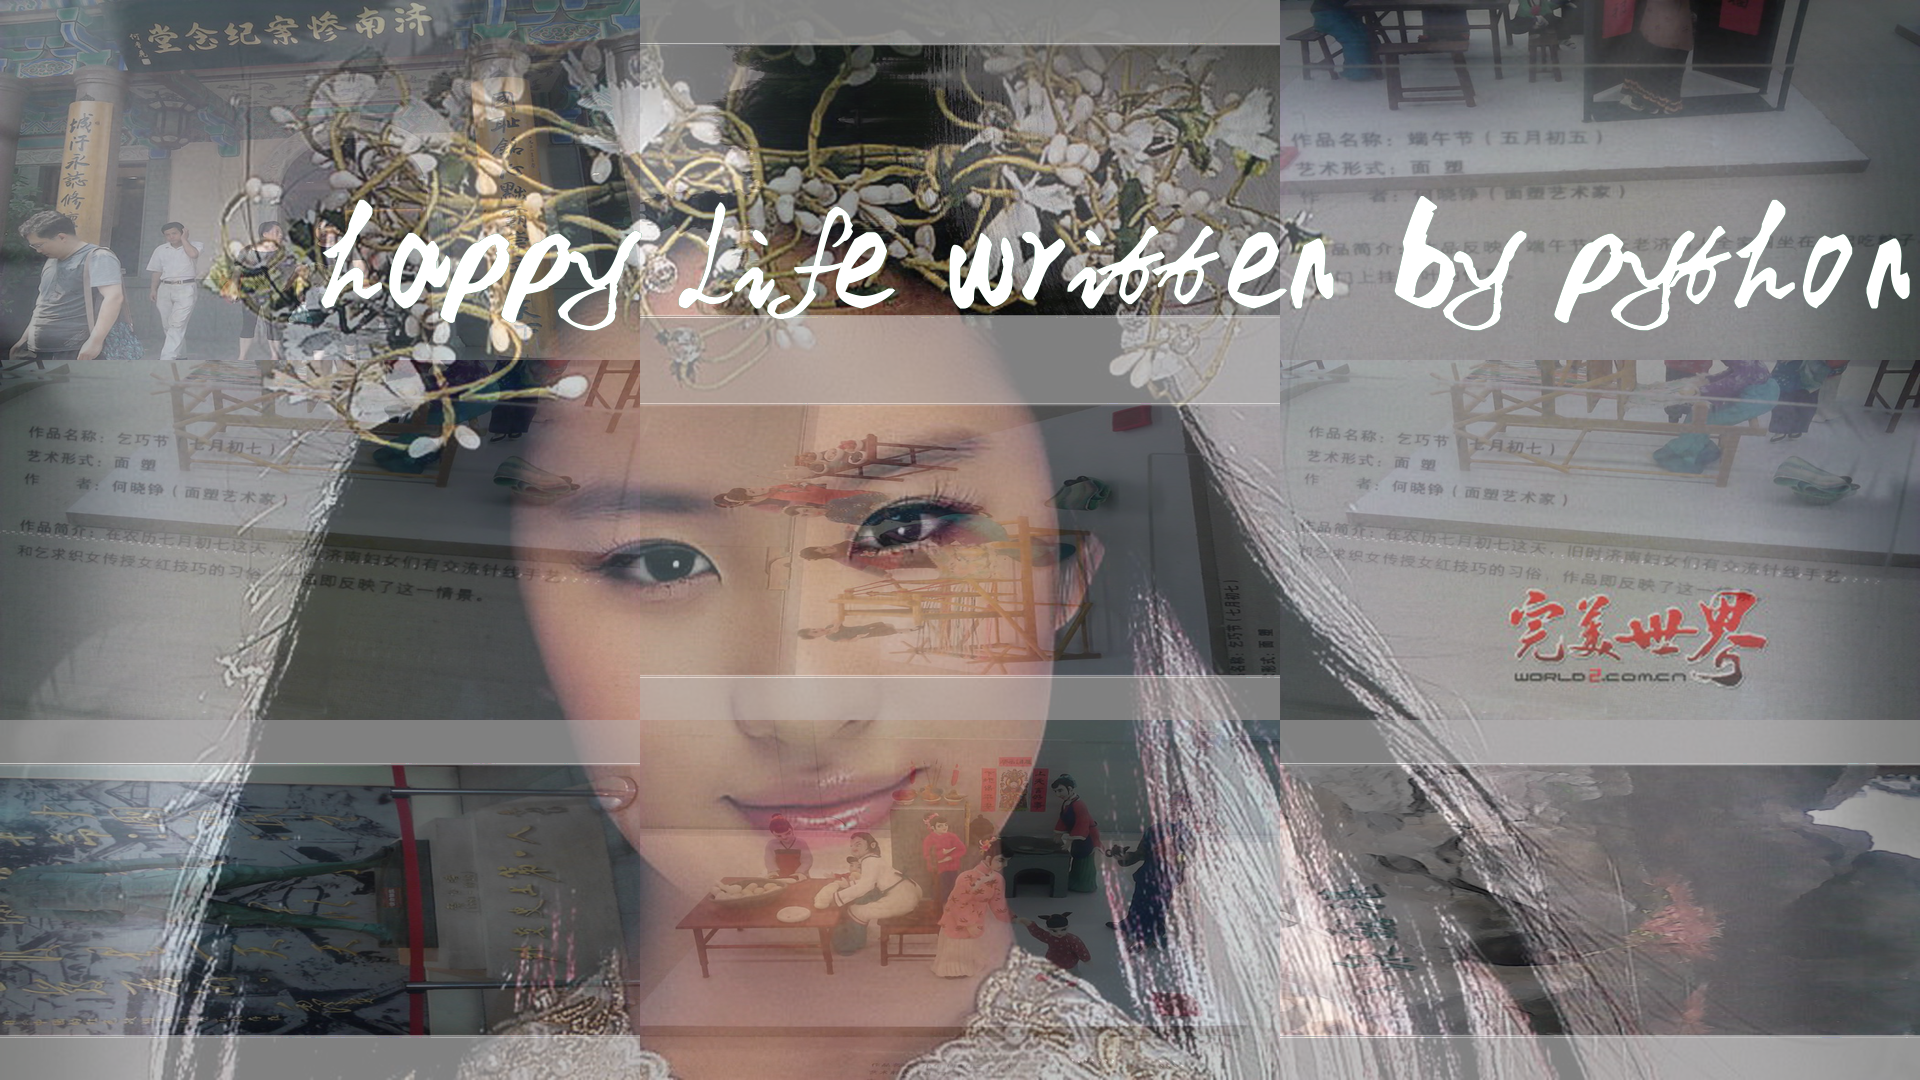
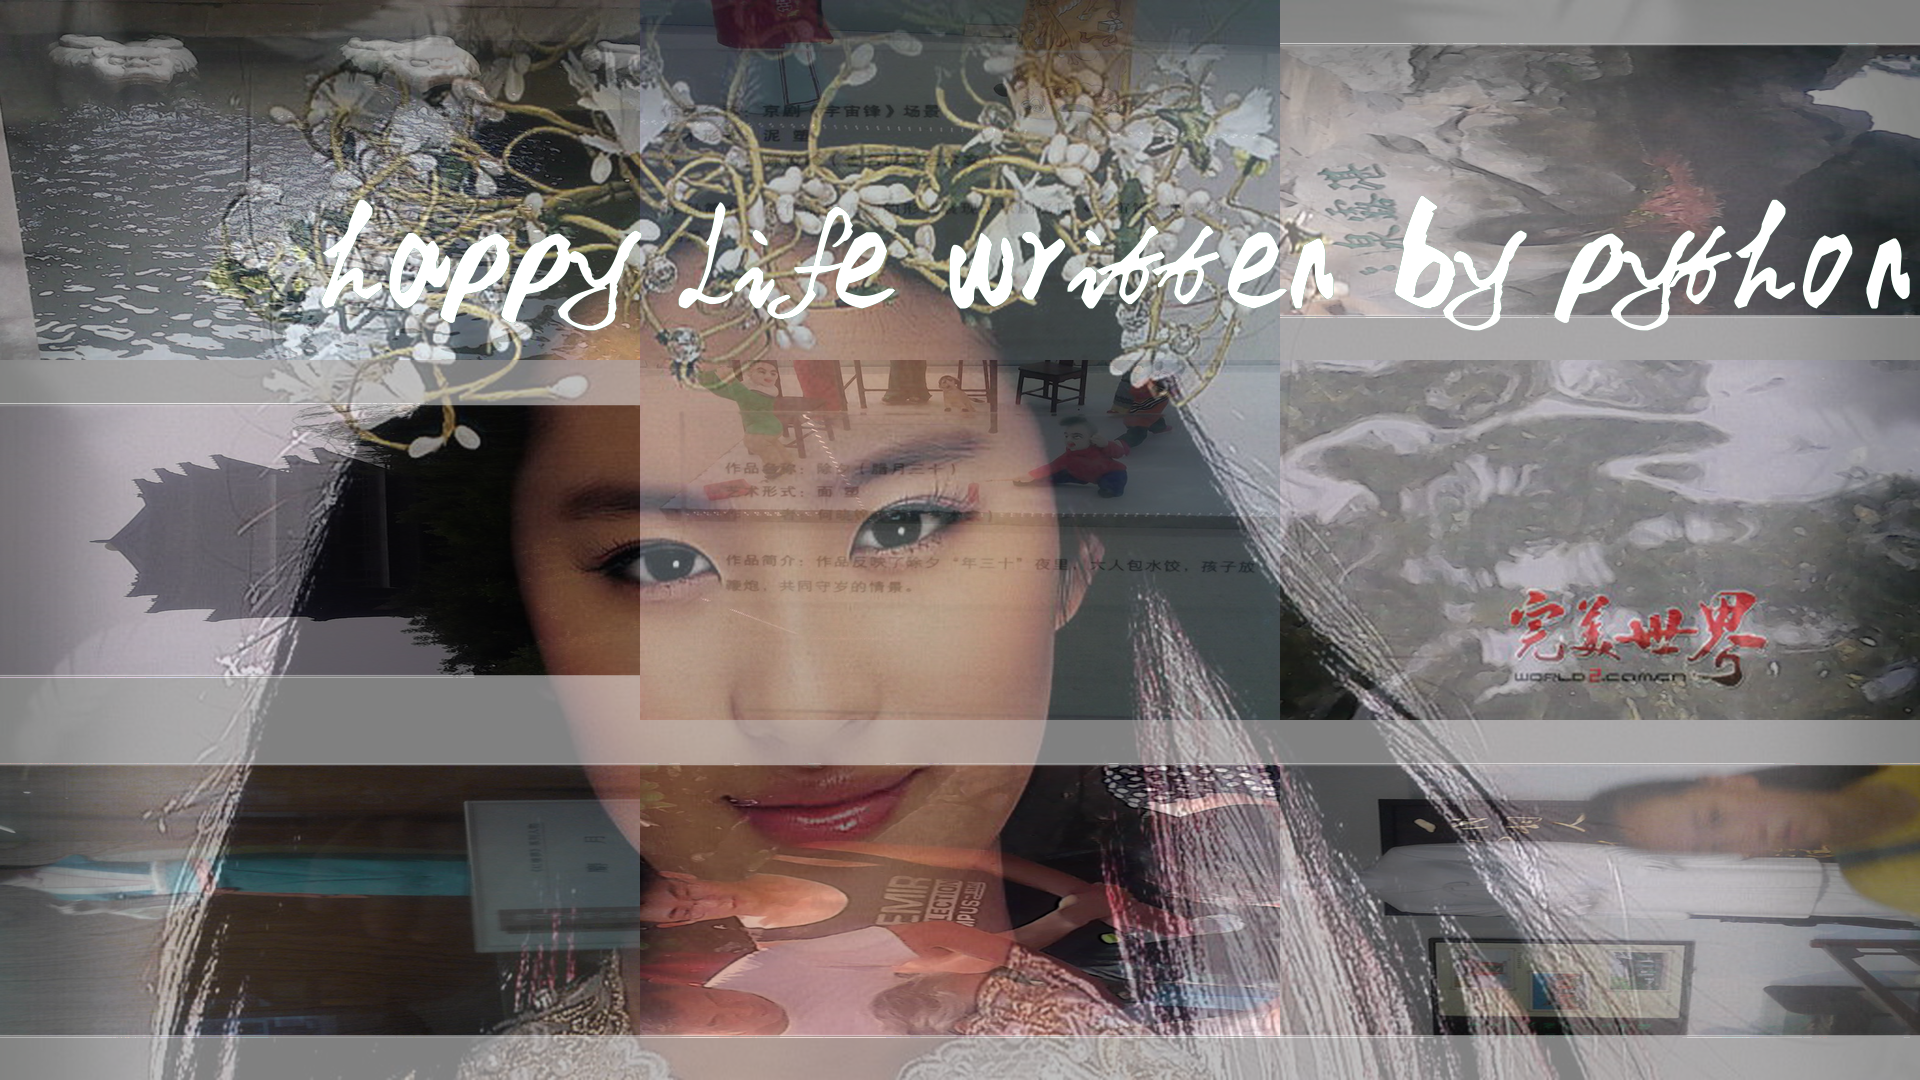
图片混合

diff --git a/pyhton图片的拼接和混合/sample.py b/pyhton图片的拼接和混合/sample.py
@@ -27,9 +27,21 @@ image.mode 对于彩色图像，不管其图像格式是PNG，还是BMP，或者
 不管其图像格式是PNG，还是BMP，或者JPG，打开后，其模式为“L”。
 image.convert() Convert image to the given mode. The mode must be given as a string constant.
 image.size in pixels. The size is given as a 2-tuple (width, height).
+image.rotate() 旋转图片
+# 图像旋转，两种方法：
+new_img1 = im.transpose(Image.ROTATE_270) # 逆时针旋转270(有些人抄都不会抄，还顺时针呢)
+new_img2 = im.rotate(90) # 逆时针旋转90
+这里说一下这两种方法，new_img1就是单纯的旋转了图片的方向。new_img2在旋转以后，可能会发生裁剪（一般不推荐2）。
+image.resize()  img.resize((width, height),Image.ANTIALIAS) PIL带ANTIALIAS滤镜缩放结果
+image.crop()使用PIL裁切图片使用PIL需要引用Image，使用Image的open(file)方法可以返回打开的图片，使用crop((x0,y0,x1,y1))方法可以对图片做裁切。
 
-
-
+区域由一个4元组定义，表示为坐标是 (left, upper, right, lower)，Python Imaging Library 使用左上角为 (0, 0)的坐标系统
+scale() 
+image.paste 方法将 im 放到第二个图片对象 im2 中，第二个参数是放置的中心点。
+font = ImageFont.truetype: 导入字体 ，第一个参数是字体文件，第二个参数是字体的大小
+draw = ImageDraw(img): 生成画笔，参数为要在图片中写字的图片对象。
+draw.ink = R + G*256 + B*256*256: 来设置画笔的颜色
+draw.text: 向图片对象中写字，第一个参数为字体的位置，用元组表示，第二个参数是内容，第三个参数是字体。
 """
 STAG = time.time()
 # W_num: 一行放多少张照片
@@ -40,7 +52,7 @@ STAG = time.time()
 root = ""
 # 将 W_num 设置为更大的值可以取得更好的效果，例如 7，15
 # 但请注意，因实验楼环境限制，更大的值会消耗更多的内存，这可能会导致程序崩溃。
-W_num =3
+W_num = 3
 # 参考 W_num
 H_num = 3
 W_size = 640
@@ -49,51 +61,59 @@ H_size = 360
 alpha = 0.5
 aval = []
 
+
 # 获取所有的图片
 def getallpicture():
     STA = time.time()
     # os.getcwd() 获取当前文件所在的绝对路径
-    root = os.getcwd()+'/resoures/'
+    root = os.getcwd() + '/resoures/'
     src = root + "/photos/"
     # 遍历文件夹内所有 jpg/png 图片 存储到上文写的全局数组 aval 中
     for i in os.listdir(src):
-        if os.path.splitext(src+i)[-1] == '.jpg' or os.path.splitext(src+i)[-1] == '.png':
-            aval.append(src+i)
+        if os.path.splitext(src + i)[-1] == '.jpg' or os.path.splitext(src + i)[-1] == '.png':
+            aval.append(src + i)
+
+
 # name: scale
 # todo: 将照片转为一样的大小
 def scale(image_path, dst_width, dst_height):
     STA = time.time()
     im = Image.open(image_path)
     if im.mode != "RGBA":
-        im = im.convert("RGBA") # 将所有的图片转化为RGBA
-    s_w,s_h = im.size
+        im = im.convert("RGBA")  # 将所有的图片转化为RGBA
+    s_w, s_h = im.size
     if s_w < s_h:
         # 将图片缩放到一致
         im = im.rotate(90)
     resized_img = im.resize((dst_width, dst_height), Image.ANTIALIAS)
-    resized_img = resized_img.crop((0,0,dst_width,dst_height))
-    print('scale Func time %s'%(time.time()-STA))
+    resized_img = resized_img.crop((0, 0, dst_width, dst_height))
+    print('scale Func time %s' % (time.time() - STA))
     return resized_img
+
+
 # name: jointAndBlend
 # todo: 创造一张新的图片，并保存
 def jointAndBlend():
-    iw_size = W_num*W_size
+    iw_size = W_num * W_size
     ih_size = H_num * H_size
-    root = os.getcwd()+'/resoures/'
+    root = os.getcwd() + '/resoures/'
     print(111111111111111111111111111)
 
-    I = np.array(scale(root+'lyf.jpg', iw_size, ih_size))
+    I = np.array(scale(root + 'lyf.jpg', iw_size, ih_size))
+    print(I)
     I = numexpr.evaluate("""I*(1-alpha)""")
     for i in range(W_num):
         for j in range(H_num):
-            sh = I[(j*H_size):((j+1)*H_size), (i*W_size):((i+1)*W_size)]
+            sh = I[(j * H_size):((j + 1) * H_size), (i * W_size):((i + 1) * W_size)]
             STA = time.time()
             DA = scale(random.choice(aval), W_size, H_size)
+            print("循环的值%s" % (DA))
             print("Cal Func Time %s" % (time.time() - STA))
             res = numexpr.evaluate("""sh+DA*alpha""")
             I[(j * H_size):((j + 1) * H_size), (i * W_size):((i + 1) * W_size)] = res
 
     Image.fromarray(I.astype(np.uint8)).save("blend.png")
+
 
 # name: rotate
 # todo: 旋转照片 blend.py
@@ -106,28 +126,29 @@ def rotate():
     im2.paste(im, (int(0.5 * W_size), int(0.8 * H_size)))
     im2 = im2.rotate(359)
     im2.save("rotate.png")
-    print("rotate Func Time %s"%(time.time()-STA))
+    print("rotate Func Time %s" % (time.time() - STA))
+
 
 # name: addText
 # todo: 在图片中写祝福语
 def addText():
     print("正在向图片中添加祝福语...")
     img = Image.open("blend.png")
-    root = os.getcwd()+'/resoures/'
-    fontWeight=W_num*W_size//12
-    font = ImageFont.truetype(root+'xindexingcao57.ttf', fontWeight)
+    root = os.getcwd() + '/resoures/'
+    fontWeight = W_num * W_size // 12
+    font = ImageFont.truetype(root + 'xindexingcao57.ttf', fontWeight)
     draw = ImageDraw.Draw(img)
-    draw.ink = 21 + 118*256 + 65*256*256
+    draw.ink = 21 + 118 * 256 + 65 * 256 * 256
 
-#    draw.text((0,H_size * 6),unicode("happy every day",'utf-8'),(0,0,0),font=font)
+    #    draw.text((0,H_size * 6),unicode("happy every day",'utf-8'),(0,0,0),font=font)
 
-    draw.text((W_size * 0.5, fontWeight), "happy life written by python", font = font)
+    draw.text((W_size * 0.5, fontWeight), "happy life written by python", font=font)
     img.save("addText.png")
 
-if __name__ == "__main__":
 
+if __name__ == "__main__":
     getallpicture()
     jointAndBlend()
     rotate()
     addText()
-    print("Total Time %s"%(time.time()-STAG))
+    print("Total Time %s" % (time.time() - STAG))
